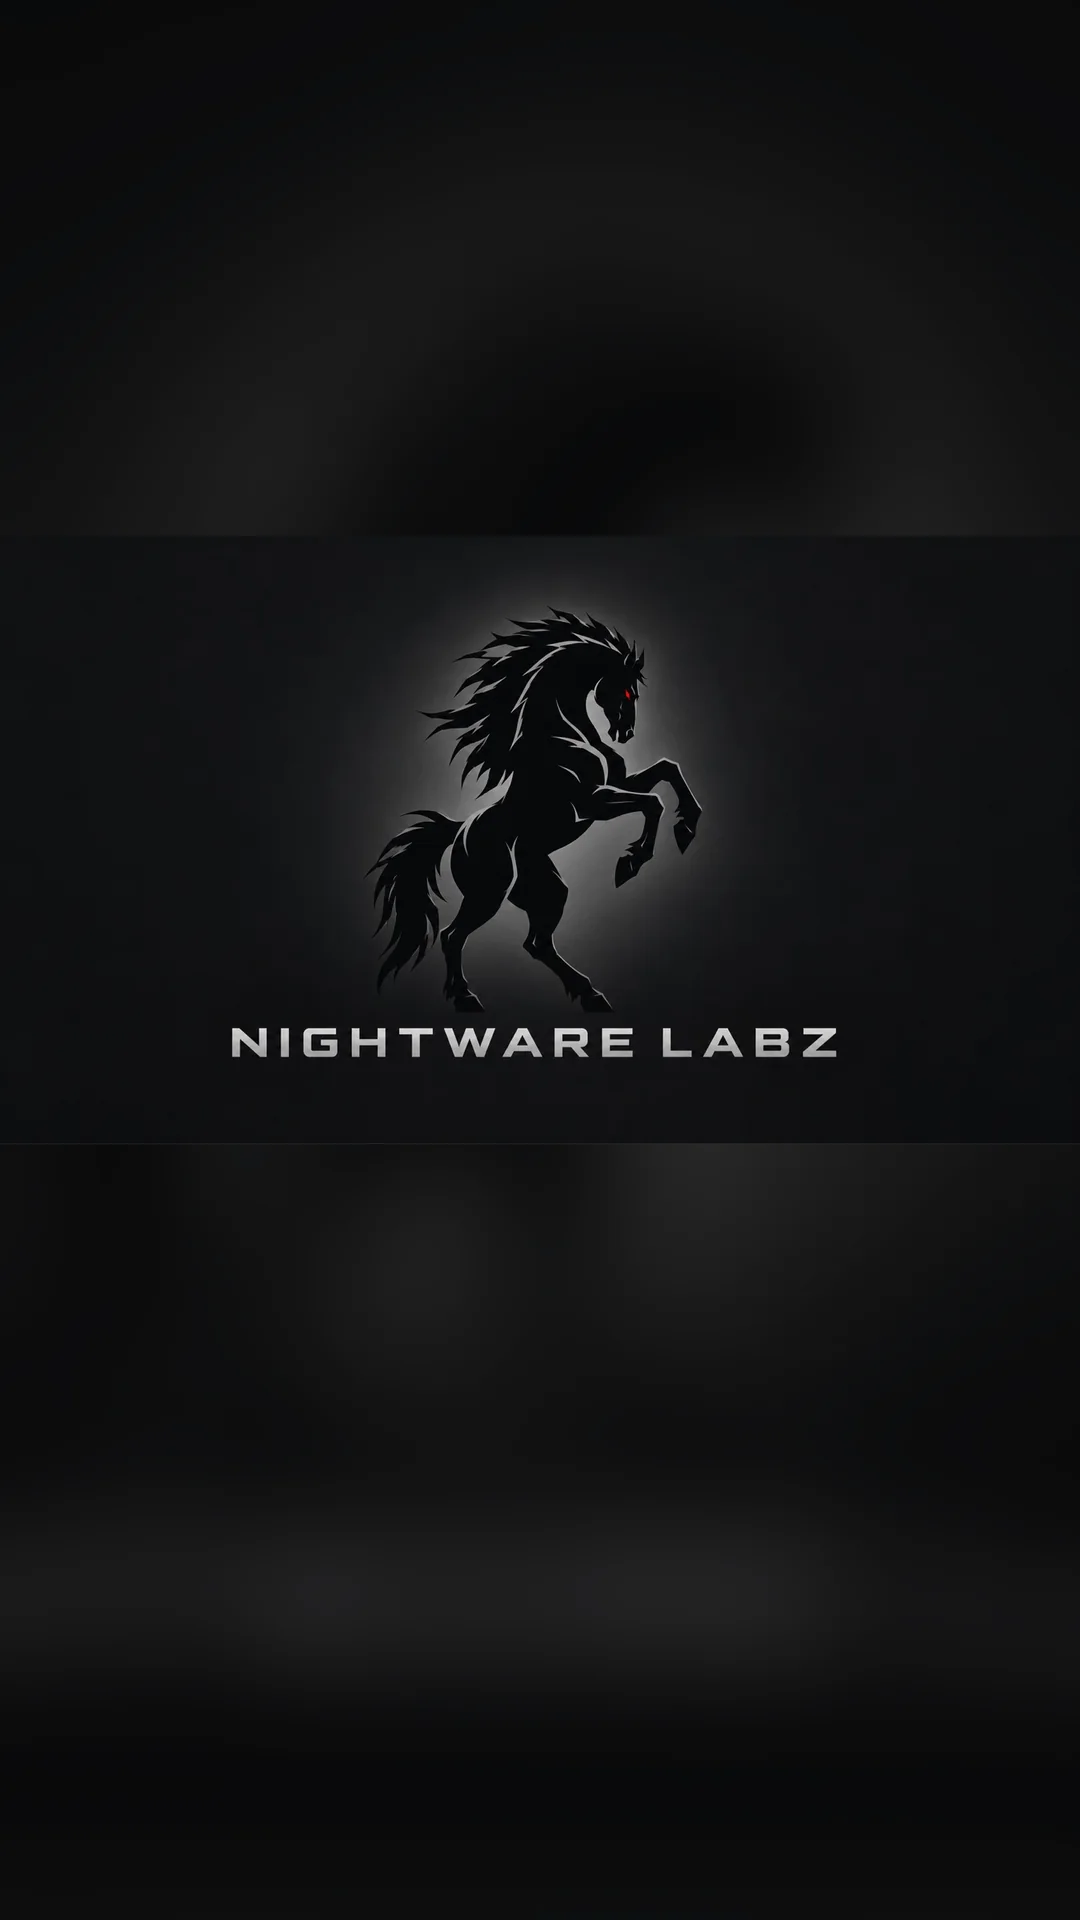
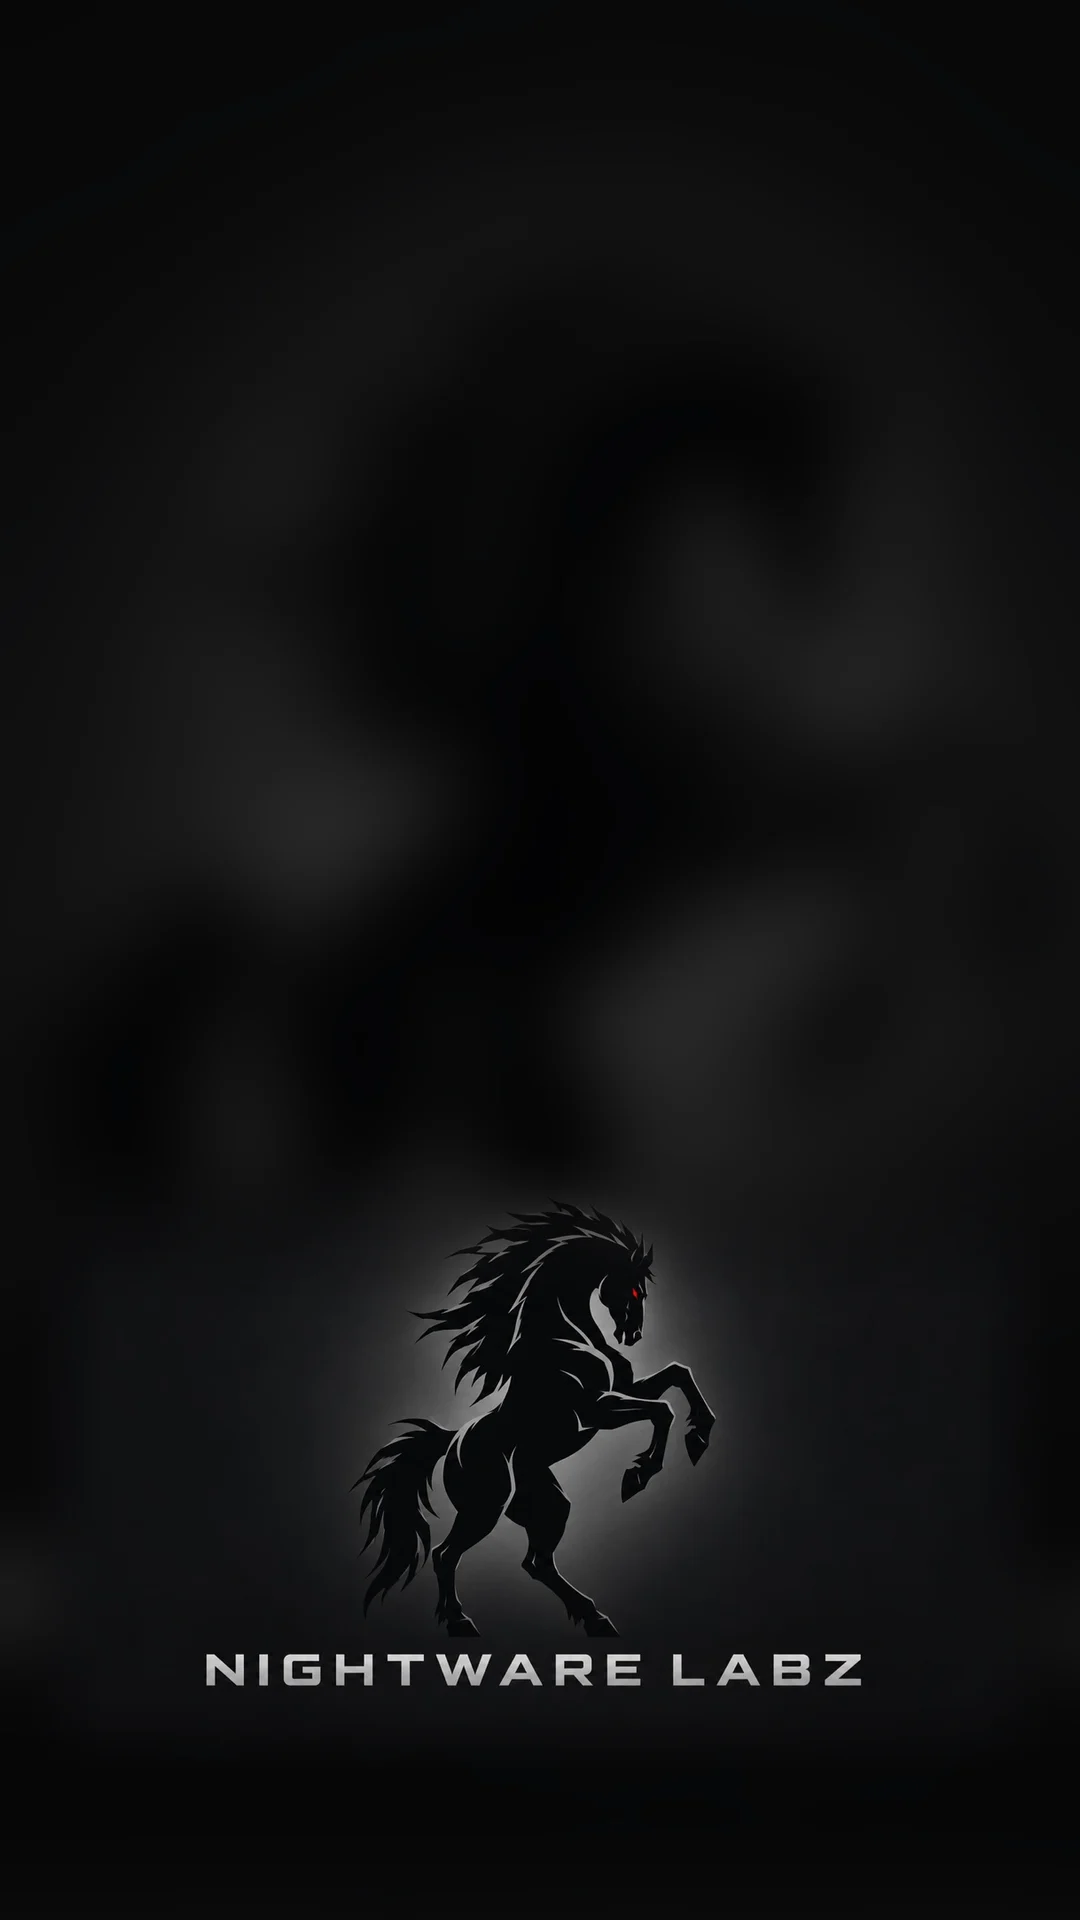
Mobile allocation, properly: the mare rides low, the taskbar fits (#47)
* Mobile allocation, properly: taskbar fits its row, icons off the mare

* Portrait plate recomposed: the mare rides low, icons get the calm field

diff --git a/src/styles/os.css b/src/styles/os.css
@@ -275,6 +275,132 @@
 }
 
 /* ————— mobile consolidation (the phone allocation, in one place) —————
+   An even 4-column icon grid over the wallpaper's calm field, labels
+   shadowed so they read over any backdrop, and a taskbar that FITS its
+   row: every text link yields (the bench lives on as a desktop icon),
+   and start / chip / clock carry compact type that never clips.
+   This block sits last in the file on purpose: it outranks the older
+   per-block mobile rules wherever they disagreed. */
+@media (max-width: 760px) {
+  .os-icons {
+    display: grid; grid-template-columns: repeat(4, 1fr);
+    top: 14px; left: 8px; right: 8px; bottom: auto;
+    gap: 10px 4px; padding: 0; max-width: none;
+  }
+  .os-icon { width: auto; min-height: 80px; padding: 8px 2px 6px; border-radius: 12px; background: rgba(4, 6, 9, 0.30); }
+  .os-icon-glyph { font-size: 1.55rem; }
+  .os-icon-label { font-size: 0.66rem; line-height: 1.25; min-height: 2.5em; text-shadow: 0 1px 5px rgba(0,0,0,0.95), 0 0 2px rgba(0,0,0,0.9); }
+  .os-taskbar { gap: 0.4rem; padding: 0.35rem 0.5rem calc(0.35rem + env(safe-area-inset-bottom)); }
+  .os-taskbar > * { flex-shrink: 0; }
+  .os-taskbar-apps { flex: 1 1 auto; min-width: 0; }
+  .os-start { white-space: nowrap; padding: 0.34rem 0.55rem; font-size: 0.72rem; line-height: 1.15; }
+  .os-task-link { display: none; }
+  .os-emcon-chip { letter-spacing: 0.05em; padding: 0.3rem 0.5rem; font-size: 0.62rem; }
+  .os-clock { font-size: 0.68rem; }
+}
+.os-wp-thumb { display: flex; flex-direction: column; gap: 4px; align-items: center; background: rgba(255,255,255,0.03); border: 1px solid var(--os-line-soft); border-radius: 10px; padding: 6px; cursor: pointer; font-size: 0.68rem; color: var(--os-muted); transition: border-color 0.12s, transform 0.1s; }
+.os-wp-thumb:hover { border-color: var(--os-accent); transform: translateY(-1px); color: var(--os-ink); }
+.os-wp-canvas { width: 132px; height: 82px; border-radius: 6px; display: block; }
+
+/* start launcher */
+.os-launcher { position: absolute; left: 10px; bottom: 10px; width: min(430px, 94vw); max-height: min(560px, 76vh); z-index: 95; background: var(--os-panel); border: 1px solid var(--os-line); border-radius: 14px; box-shadow: 0 30px 80px rgba(0,0,0,0.7); backdrop-filter: blur(18px); -webkit-backdrop-filter: blur(18px); display: flex; flex-direction: column; overflow: hidden; animation: os-win-in 0.22s ease both; }
+.os-launcher input { background: #03050a; border: none; border-bottom: 1px solid var(--os-line-soft); color: var(--os-ink); font: inherit; font-size: 0.95rem; padding: 0.8rem 0.9rem; }
+.os-launcher input:focus { outline: none; }
+.os-launcher-list { overflow-y: auto; padding: 0.45rem; display: flex; flex-direction: column; gap: 2px; }
+.os-launch-item { display: flex; gap: 0.6rem; align-items: baseline; text-align: left; background: transparent; border: 1px solid transparent; border-radius: 8px; padding: 0.5rem 0.6rem; cursor: pointer; font-size: 0.8rem; width: 100%; }
+.os-launch-item:hover, .os-launch-item.sel { background: rgba(255,255,255,0.06); border-color: var(--os-line-soft); }
+.os-launch-item small { color: var(--os-faint); margin-left: auto; font-size: 0.64rem; letter-spacing: 0.08em; }
+.os-launch-head { font-size: 0.6rem; letter-spacing: 0.22em; color: var(--os-faint); padding: 0.5rem 0.6rem 0.2rem; font-weight: 700; }
+
+/* toasts */
+.os-toasts { position: absolute; right: 12px; top: 12px; z-index: 96; display: flex; flex-direction: column; gap: 8px; pointer-events: none; }
+.os-toast { background: var(--os-panel); border: 1px solid var(--os-line); border-left: 3px solid var(--os-accent); border-radius: 10px; padding: 0.6rem 0.8rem; font-size: 0.76rem; max-width: min(360px, 86vw); box-shadow: 0 14px 40px rgba(0,0,0,0.55); backdrop-filter: blur(14px); animation: os-win-in 0.25s ease both; }
+@media (max-width: 760px) { .os-launcher { left: 6px; right: 6px; width: auto; bottom: 6px; } .os-launcher input { font-size: 16px; } }
+
+/* daylight bottle */
+.os-bottle-box { border: 1px solid var(--os-line-soft); border-radius: 10px; padding: 0.75rem; margin-bottom: 0.85rem; background: rgba(255, 255, 255, 0.02); }
+.os-bottle-box h3 { font-size: 0.8rem; letter-spacing: 0.12em; color: var(--os-muted); margin: 0 0 0.55rem; }
+.os-bottle-area { width: 100%; background: #03050a; color: var(--os-ink); border: 1px solid var(--os-line-soft); border-radius: 8px; font: inherit; font-size: 0.79rem; line-height: 1.55; padding: 0.6rem; resize: vertical; margin-bottom: 0.5rem; }
+.os-bottle-area:focus { outline: 1px solid var(--os-accent); }
+.os-bottle-input, .os-bottle-select { background: #03050a; color: var(--os-ink); border: 1px solid var(--os-line-soft); border-radius: 8px; font: inherit; font-size: 0.77rem; padding: 0.44rem 0.6rem; }
+
+/* ————————————————————————————————
+   TABLET allocation (761–1100px): windows open near-full, dock stays left
+   ———————————————————————————————— */
+@media (max-width: 1100px) and (min-width: 761px) {
+  .os-window { width: min(94vw, 860px); height: min(84vh, 640px); }
+}
+
+/* ————————————————————————————————
+   MOBILE allocation (≤760px): fullscreen windows, top icon dock,
+   condensed taskbar, 44px targets, 16px inputs (no phone zoom).
+   ———————————————————————————————— */
+@media (max-width: 760px) {
+  .os-window { left: 0 !important; top: 0 !important; width: 100% !important; height: 100% !important; border-radius: 0; border: none; }
+  .os-window.maxed { left: 0 !important; top: 0 !important; width: 100% !important; height: 100% !important; }
+  .os-win-resize { display: none; }
+  .os-win-btn { width: 34px; height: 30px; }
+  .os-icons {
+    top: 8px; left: 0; right: 0; flex-direction: row; flex-wrap: wrap; justify-content: center;
+    gap: 2px; padding: 0 6px;
+  }
+  .os-icon { width: 76px; min-height: 64px; padding: 7px 2px 5px; }
+  .os-icon-glyph { font-size: 1.3rem; }
+  .os-desktop-brand { display: none; }
+  .os-taskbar { gap: 0.4rem; padding: 0.35rem 0.45rem; }
+  .os-start { padding: 0.5rem 0.65rem; font-size: 0.78rem; }
+  .os-task-btn { padding: 0.44rem 0.6rem; min-height: 38px; }
+  .os-task-link { display: none; }
+  .os-clock { font-size: 0.7rem; }
+  .os-emcon-chip { padding: 0.4rem 0.6rem; }
+  .os-term-input { font-size: 16px; }
+  .os-term-text { font-size: 0.76rem; }
+  .os-editor-area, .os-help-search, .os-bottle-area, .os-bottle-input, .os-bottle-select { font-size: 16px; }
+  .os-boot-text { font-size: 0.7rem; width: 92vw; }
+  .os-boot-name { font-size: 1.1rem; letter-spacing: 0.28em; }
+  .os-file-row { min-height: 44px; }
+  .os-btn { min-height: 40px; }
+  .os-btn.small { min-height: 30px; }
+}
+
+/* ————— wave 7: coarse pointers get honest targets; the room goes dark-schemed ————— */
+.os-root { color-scheme: dark; }
+@media (pointer: coarse) {
+  .os-win-btn { min-width: 38px; min-height: 34px; }
+  .os-icon { padding: 10px 4px 8px; }
+  .os-launcher-list button, .os-launcher-item { min-height: 48px; }
+  .os-btn { min-height: 38px; }
+  .os-file-row { min-height: 44px; }
+}
+
+/* ————— Relay: the house wire (IRC) ————— */
+.os-relay { display: flex; flex-direction: column; height: 100%; gap: 0.6rem; }
+.os-relay-card { display: flex; flex-direction: column; gap: 0.55rem; max-width: 460px; }
+.os-relay-tls { display: flex; align-items: center; gap: 0.45rem; font-size: 0.82rem; color: var(--os-dim, #9fb0c3); }
+.os-relay-view { display: grid; grid-template-columns: 128px minmax(0, 1fr) 148px; gap: 0.6rem; flex: 1; min-height: 0; }
+.os-relay-targets { display: flex; flex-direction: column; gap: 0.3rem; overflow-y: auto; }
+.os-relay-target { text-align: left; background: rgba(255,255,255,0.04); border: 1px solid rgba(255,255,255,0.09); color: inherit; border-radius: 7px; padding: 0.42rem 0.55rem; font: inherit; font-size: 0.78rem; cursor: pointer; overflow: hidden; text-overflow: ellipsis; white-space: nowrap; }
+.os-relay-target.active { border-color: #ffb02e; color: #ffb02e; }
+.os-relay-main { display: flex; flex-direction: column; min-width: 0; min-height: 0; }
+.os-relay-lines { flex: 1; overflow-y: auto; font-family: ui-monospace, SFMono-Regular, Menlo, monospace; font-size: 0.8rem; line-height: 1.5; padding: 0.4rem 0.2rem; overflow-wrap: anywhere; }
+.os-relay-line { white-space: pre-wrap; }
+.os-relay-inputrow { border-top: 1px solid rgba(255,255,255,0.09); padding-top: 0.5rem; display: flex; gap: 0.5rem; align-items: center; }
+.os-relay-inputrow .os-relay-input { flex: 1; }
+.os-relay-input { width: 100%; box-sizing: border-box; background: rgba(255,255,255,0.05); border: 1px solid rgba(255,255,255,0.12); border-radius: 7px; color: inherit; font: inherit; font-size: 0.85rem; padding: 0.55rem 0.65rem; }
+.os-relay-users { overflow-y: auto; font-size: 0.76rem; border-left: 1px solid rgba(255,255,255,0.08); padding-left: 0.55rem; }
+.os-relay-users-h { color: var(--os-dim, #9fb0c3); margin-bottom: 0.35rem; }
+.os-relay-user { padding: 0.1rem 0; overflow: hidden; text-overflow: ellipsis; white-space: nowrap; }
+@media (max-width: 760px) {
+  .os-task-link { display: inline-block; font-size: 0.68rem; padding: 0.3rem 0.35rem; }
+  .os-relay-view { grid-template-columns: minmax(0, 1fr); grid-template-rows: auto minmax(0, 1fr); }
+  .os-relay-targets { flex-direction: row; overflow-x: auto; overflow-y: hidden; padding-bottom: 0.2rem; }
+  .os-relay-target { flex: 0 0 auto; min-height: 38px; }
+  .os-relay-users { display: none; }
+  .os-relay-input { font-size: 16px; }
+  .os-relay-card { max-width: none; }
+}
+
+/* ————— mobile consolidation (the phone allocation, in one place) —————
    An even 4-column icon grid with a uniform label reserve, and a taskbar
    that fits its row: the start button never wraps, the external nightjar
    link yields its space (the bench link and the Bench desktop icon stay),
